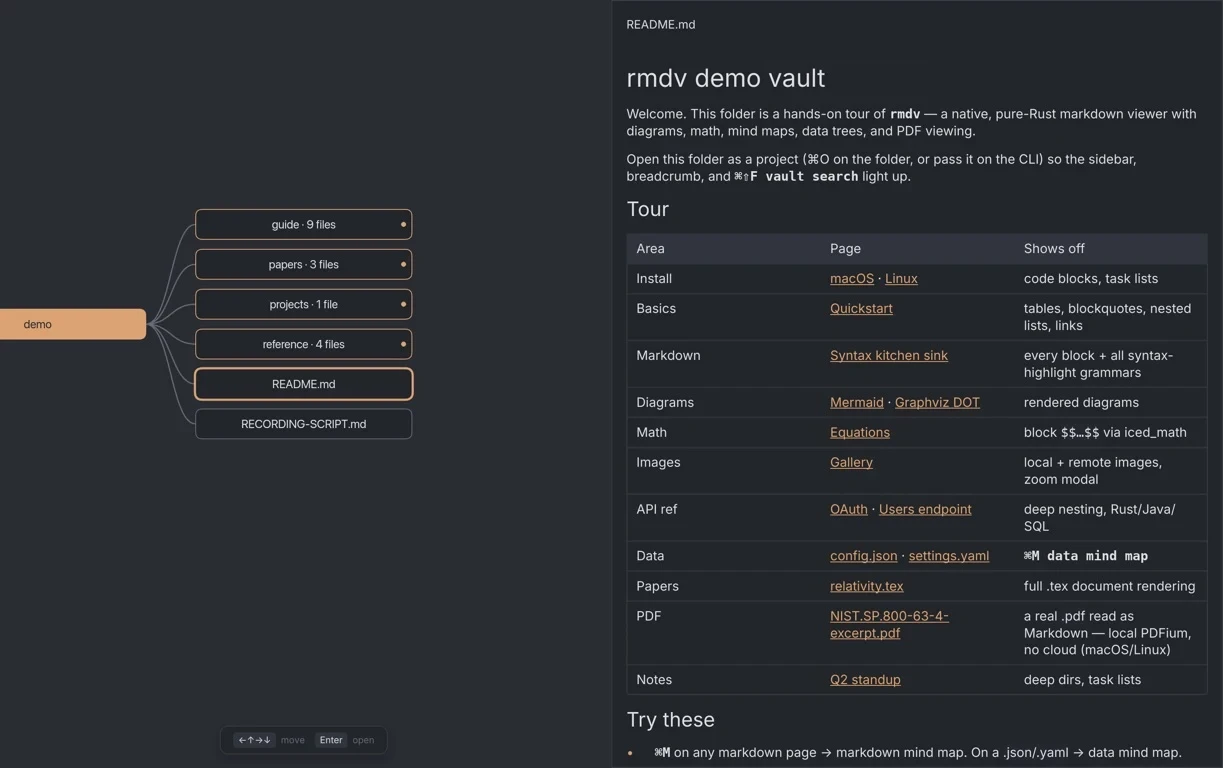
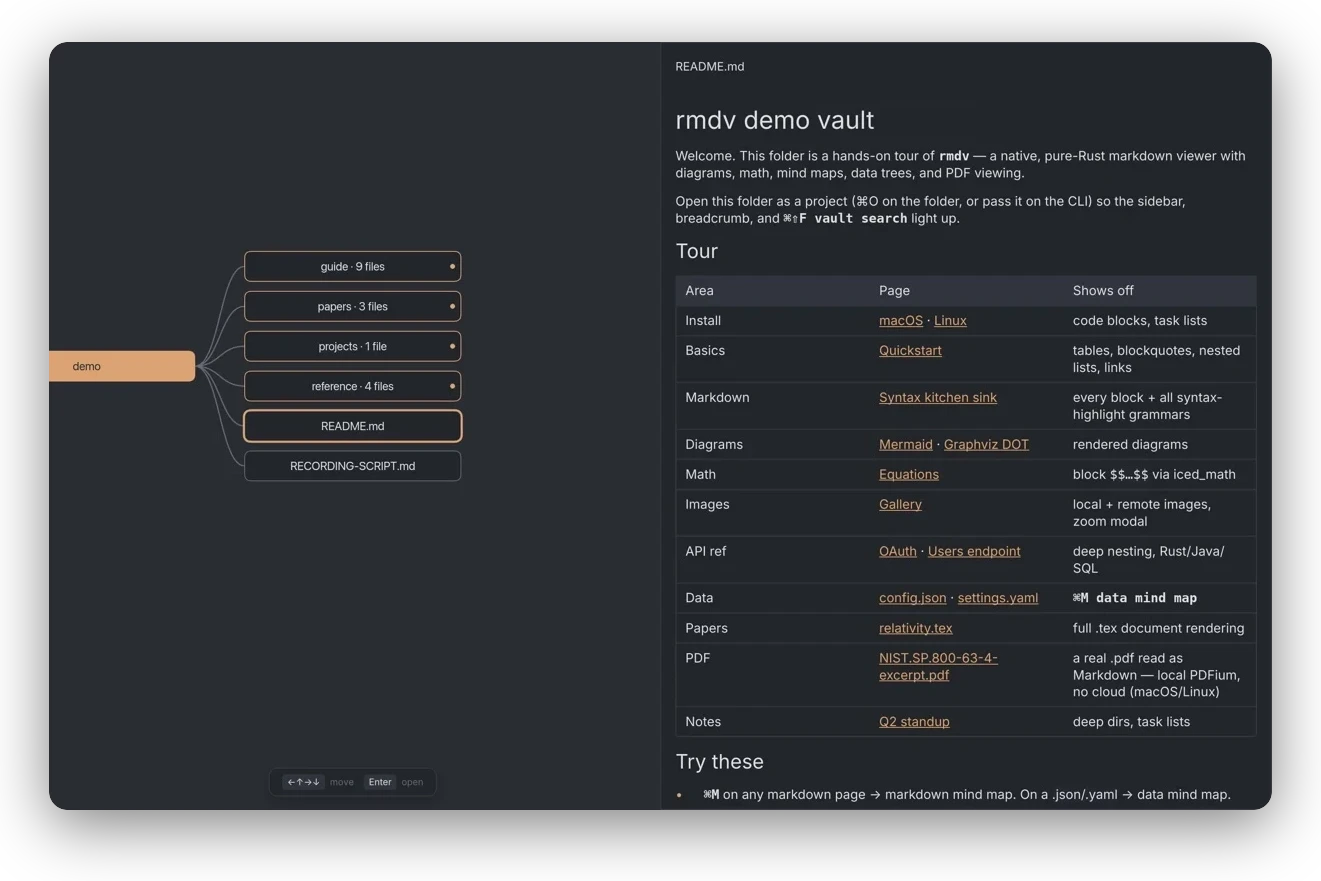
site: show screenshots as framed windows (rounded corners, shadow)
Re-composite the seven shot-*.webp files with a rounded window edge and a soft
transparent shadow, and drop the duplicate border, radius and background that the
page CSS added around them. Update image dimensions and aspect ratios.

diff --git a/site/index.html b/site/index.html
@@ -284,9 +284,9 @@
       <figure class="hero-capture">
         <button class="shot-trigger" type="button" aria-label="View full-size rmdv workspace screenshot">
           <img src="assets/shot-hero.webp"
-               srcset="assets/shot-hero-960.webp 960w, assets/shot-hero.webp 1920w"
+               srcset="assets/shot-hero-960.webp 1036w, assets/shot-hero.webp 2074w"
                sizes="(max-width: 800px) 100vw, 980px"
-               alt="rmdv showing a service design note with a Mermaid flowchart, display math, and a code block, with the project file tree in the sidebar" width="1920" height="1149">
+               alt="rmdv showing a service design note with a Mermaid flowchart, display math, and a code block, with the project file tree in the sidebar" width="2074" height="1326">
         </button>
         <figcaption><span>ledger-design.md</span><span>One Dark · 100%</span></figcaption>
       </figure>
@@ -332,7 +332,7 @@
     <div class="chapter-body">
       <figure class="product-capture capture-wide">
         <button class="shot-trigger" type="button" aria-label="View full-size Full Mindmap workspace screenshot">
-          <img src="assets/shot-full-mindmap.webp" alt="Full Mindmap showing a folder graph, selected Markdown file, and read-only preview" loading="lazy" decoding="async" width="1223" height="768">
+          <img src="assets/shot-full-mindmap.webp" alt="Full Mindmap showing a folder graph, selected Markdown file, and read-only preview" loading="lazy" decoding="async" width="1321" height="881">
         </button>
         <figcaption>Full Mindmap keeps the folder graph and selected document visible together.</figcaption>
       </figure>
@@ -353,20 +353,20 @@
     <div class="capture-sequence">
       <figure class="product-capture capture-primary">
         <button class="shot-trigger" type="button" aria-label="View full-size diagrams screenshot">
-          <img src="assets/shot-diagrams.webp" alt="A Mermaid flowchart rendered natively inside rmdv" loading="lazy" decoding="async" width="1600" height="1005">
+          <img src="assets/shot-diagrams.webp" alt="A Mermaid flowchart rendered natively inside rmdv" loading="lazy" decoding="async" width="1728" height="1152">
         </button>
         <figcaption><strong>Diagrams and math.</strong> Mermaid and Graphviz DOT render natively; block LaTeX uses a pure-Rust layout engine.</figcaption>
       </figure>
       <div class="capture-pair">
         <figure class="product-capture">
           <button class="shot-trigger" type="button" aria-label="View full-size syntax screenshot">
-            <img src="assets/shot-treesitter.webp" alt="Syntax-highlighted Rust and Java code blocks" loading="lazy" decoding="async" width="1600" height="1005">
+            <img src="assets/shot-treesitter.webp" alt="Syntax-highlighted Rust and Java code blocks" loading="lazy" decoding="async" width="1728" height="1152">
           </button>
           <figcaption><strong>Real parsers.</strong> Tree-sitter highlighting for Rust, Python, TypeScript, Go, C, Java, SQL, Bash, and more.</figcaption>
         </figure>
         <figure class="product-capture">
           <button class="shot-trigger" type="button" aria-label="View full-size mindmap screenshot">
-            <img src="assets/shot-mindmap.webp" alt="A JSON configuration file shown as a collapsible data mindmap" loading="lazy" decoding="async" width="1600" height="1005">
+            <img src="assets/shot-mindmap.webp" alt="A JSON configuration file shown as a collapsible data mindmap" loading="lazy" decoding="async" width="1728" height="1152">
           </button>
           <figcaption><strong>Structure on demand.</strong> Any Markdown, JSON, YAML, or TOML document can become a navigable tree.</figcaption>
         </figure>

diff --git a/site/style.css b/site/style.css
@@ -381,7 +381,6 @@ main {
   position: relative;
   margin: 0;
   border-top: 1px solid var(--rule);
-  background: var(--code-bg);
 }
 
 .shot-trigger {
@@ -400,7 +399,7 @@ main {
   height: auto;
 }
 
-.hero-capture img { aspect-ratio: 1920 / 1149; object-fit: cover; object-position: top left; }
+.hero-capture img { aspect-ratio: 2074 / 1326; object-fit: cover; object-position: top left; }
 .hero-capture figcaption {
   min-height: 37px;
   padding: 8px 14px;
@@ -445,28 +444,23 @@ main {
 
 .product-capture {
   margin: 0;
-  border: 1px solid var(--rule-strong);
-  border-radius: 10px;
-  overflow: hidden;
-  background: var(--surface);
 }
 
 .product-capture img {
-  aspect-ratio: 1600 / 1005;
+  aspect-ratio: 1728 / 1152;
   object-fit: cover;
   object-position: top left;
 }
 
 .product-capture figcaption {
-  padding: 13px 16px;
-  border-top: 1px solid var(--rule);
+  padding: 2px 16px 0;
   color: var(--muted);
   font-size: 13px;
   line-height: 1.55;
 }
 
 .product-capture figcaption strong { color: var(--fg); font-weight: 650; }
-.capture-wide img { aspect-ratio: 1223 / 768; }
+.capture-wide img { aspect-ratio: 1321 / 881; }
 
 .capability-list {
   margin: 24px 0 0;
